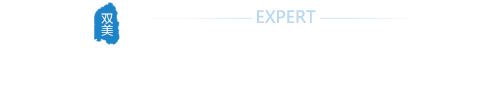
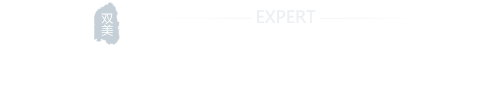
nav样式
nav样式

Changed region(s): [[0.1867, 0.0222, 0.249, 0.5111], [0.4979, 0.1111, 0.7469, 0.2667]]

diff --git a/static.hzshuangmei.com/css/pc/common.css b/static.hzshuangmei.com/css/pc/common.css
@@ -383,7 +383,7 @@ header .sm_logo img {
 }
 /* 三亚双美 */
 .sy_nav > ul > li:hover {
-    background: #177ec5!important;
+    background: #5d819a !important;
 }
 /* 导航 案例  热门提醒 */
 #nav .nav_list:nth-child(5) span::before {
